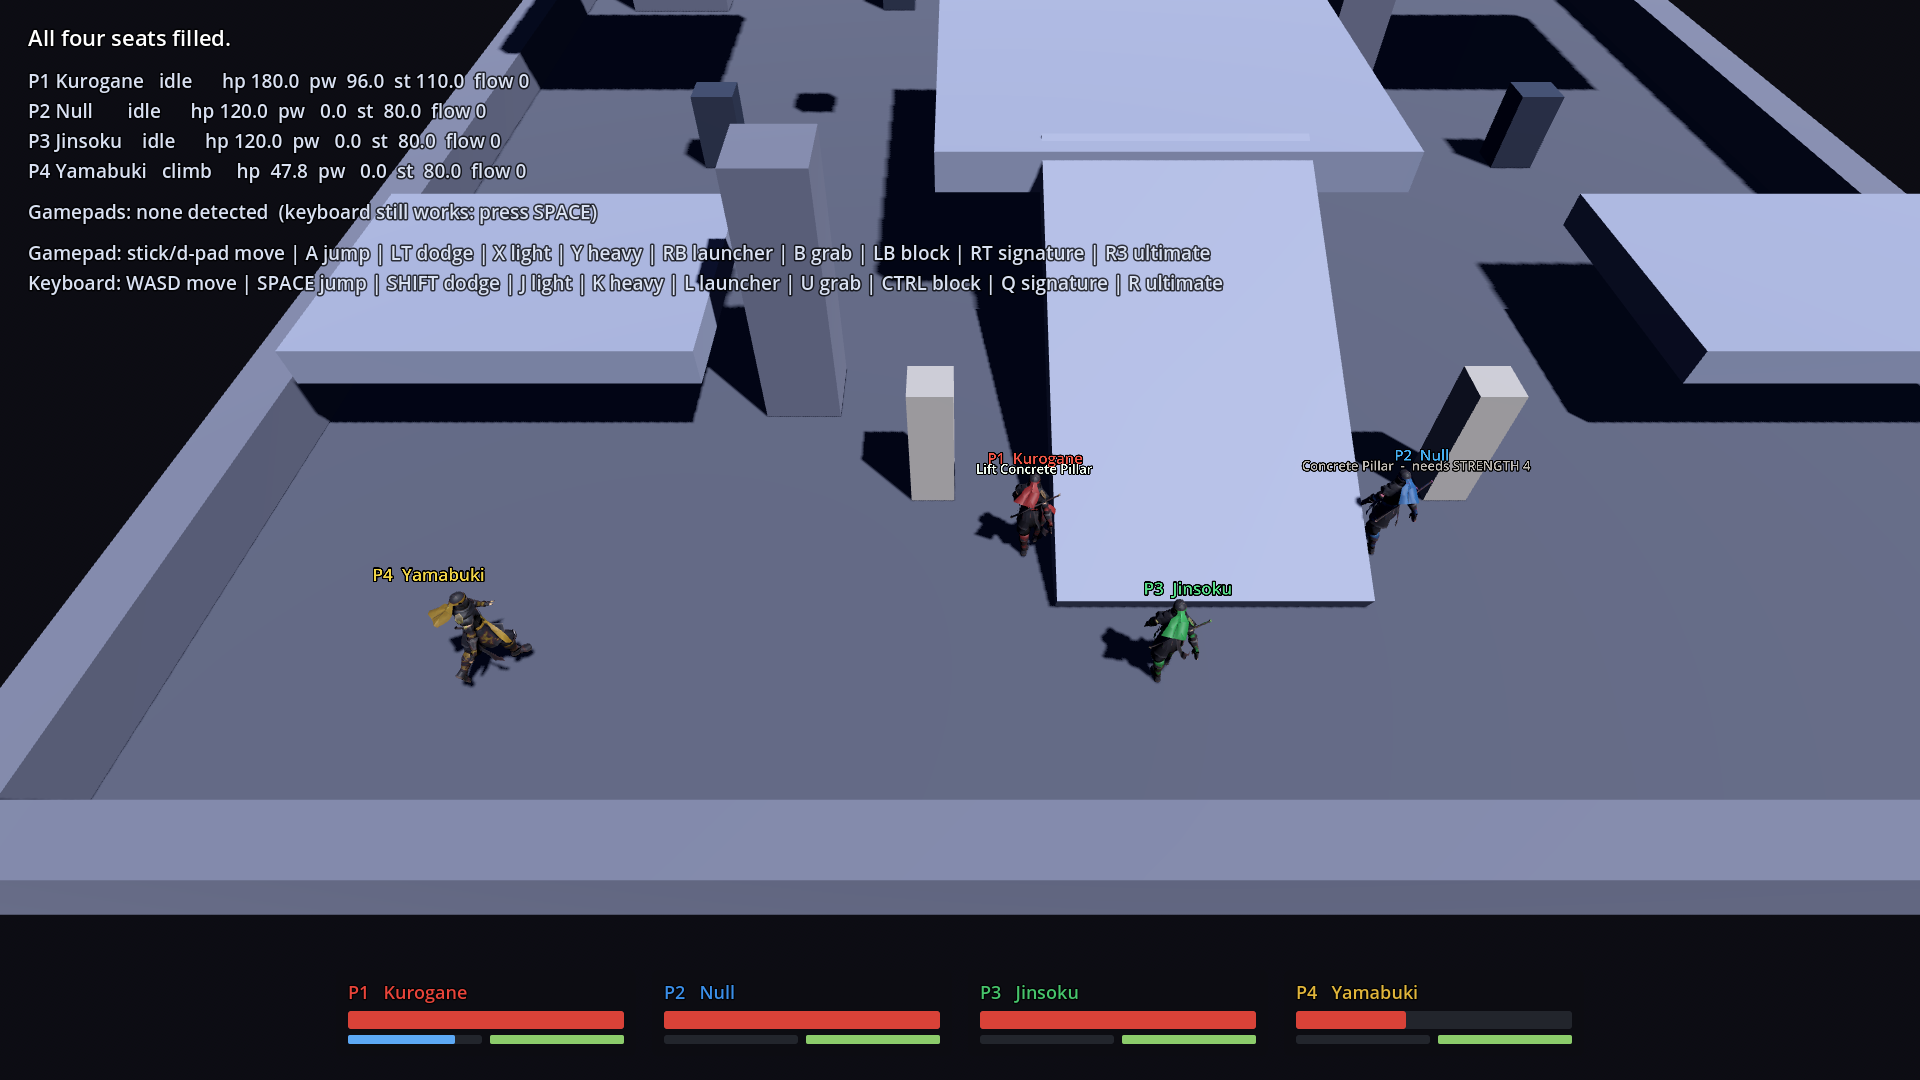
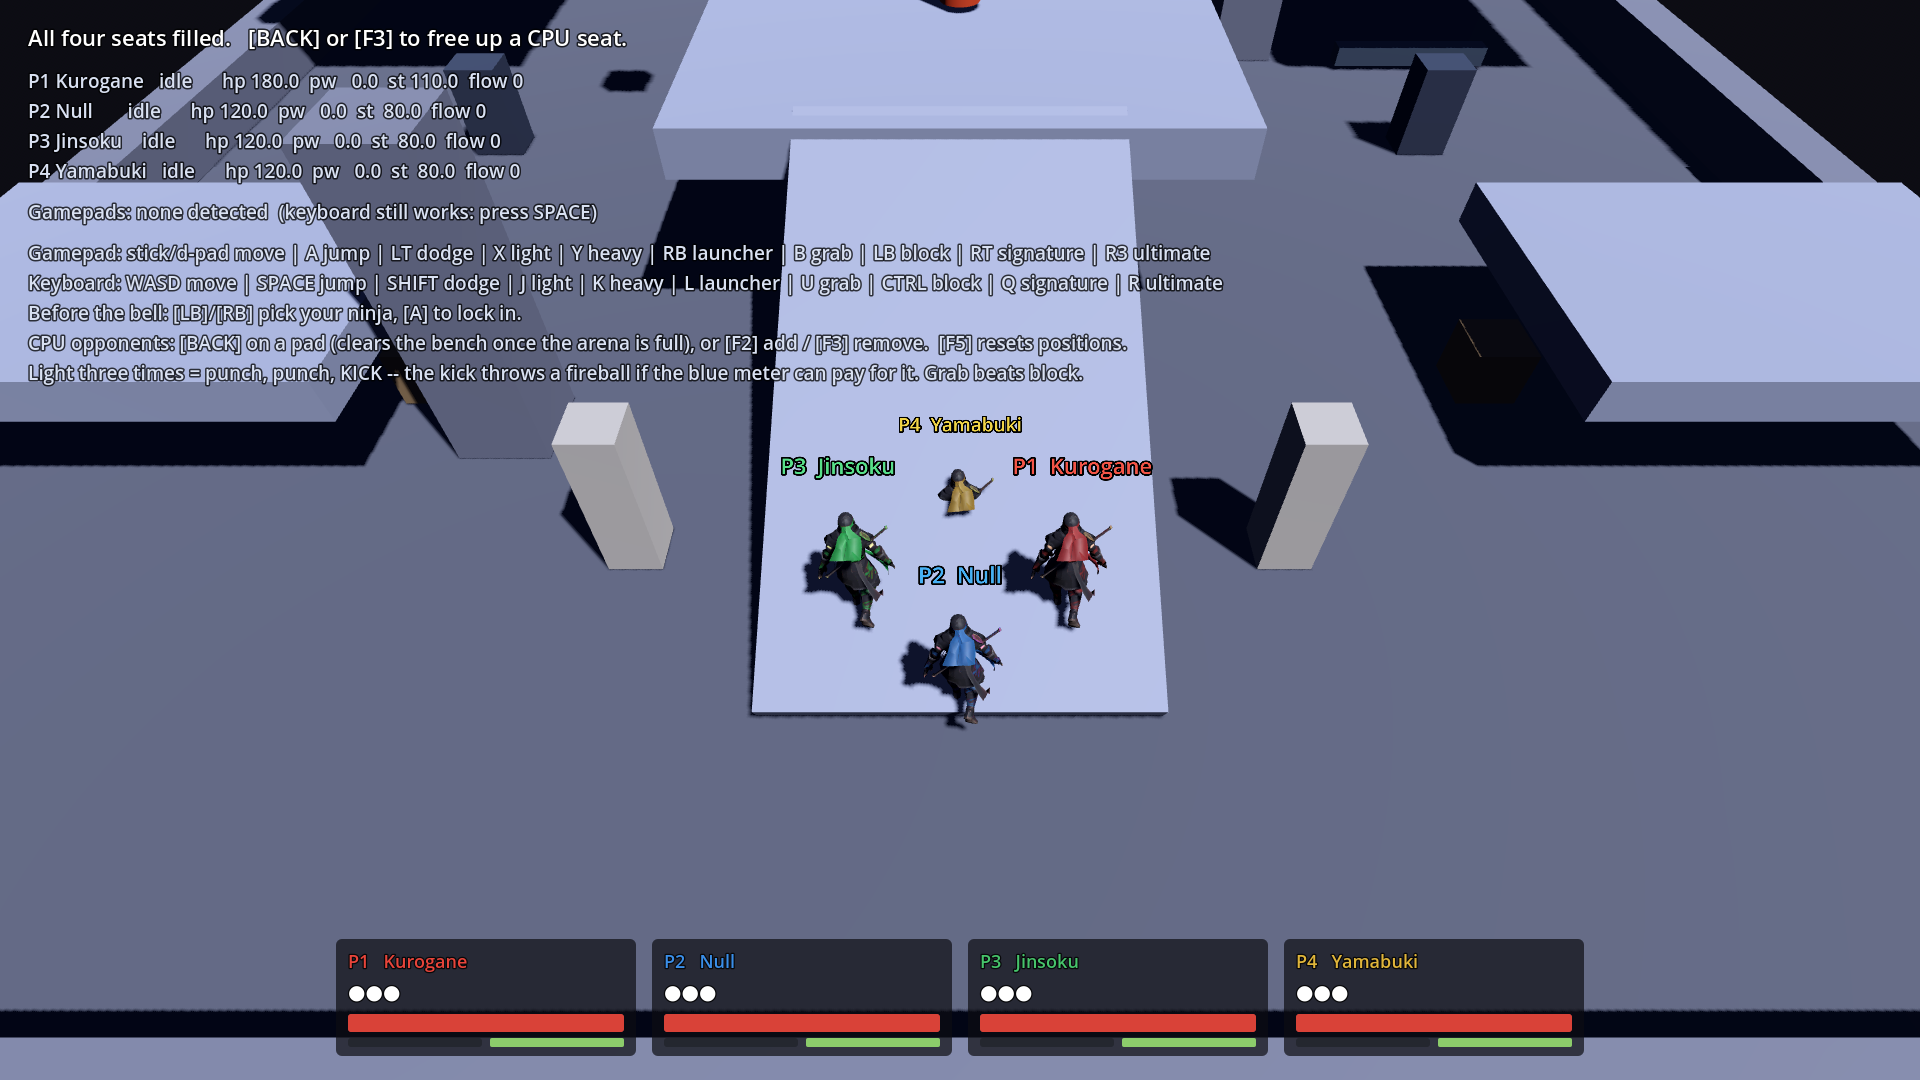
Pull the camera in: a fighter was 8% of the screen at best
Measured rather than eyeballed, because "is it zoomed out too far" is not a
question one screenshot answers. A standing ninja covered 8.3% of the
screen's height with the whole fight in one spot and 5.6-6.8% at a normal
working distance -- while the outermost fighter never once got past
halfway to the edge of the frame. All that margin was buying nothing.

Padding was the number doing it: at 5.0 it kept a body's height of empty
floor on every side of the outermost fighter, and at anything short of a
full-arena spread it, not the spread, was what the framing solved for.
Padding 2.6, head_room 2.6 (sized to the nameplate rather than guessed)
and min_distance 8.0 give 11.1% tight and 6.7-8.6% at working distances.
The permission prompts above fighters' heads are legible from the normal
camera position now, which they were not -- that is the game's main
teaching mechanism and it had been too small to read.

Getting an honest number took two attempts. Projecting head and feet to
pixels answers in the real viewport's units, and the headless viewport is
not the shape the game is played on; dividing those by an assumed 1080
would have reported half the truth and sent the tuning the wrong way. The
fraction comes from the camera's own distance and field of view instead,
with the pitch cosine for foreshortening.

The brawl probe now counts samples where anybody is off screen, so a
tighter frame has to be shown safe under knockback and not just at staged
spacings.
[…]

diff --git a/docs/ROADMAP.md b/docs/ROADMAP.md
@@ -486,6 +486,64 @@ Props added at the same time:
   friendly-fire exemption; it is the one object here that does not care whose
   it was.
 
+## The camera was zoomed too far out, and I had said so twice
+
+A standing ninja covered 8.3% of the screen's height with the whole fight in one
+spot, and 5.6-6.8% at a normal working distance. That is small for a game where
+you have to read a wind-up. Meanwhile the outermost fighter never once got past
+halfway to the edge of the frame -- all that margin was being spent on nothing.
+
+Padding was the number doing it. At 5.0 it kept a body's height of empty floor
+on every side of the outermost fighter, and at anything short of a full-arena
+spread it, not the spread, was what the framing solved for. Padding 2.6,
+head_room 2.6 (sized to the nameplate rather than guessed) and min_distance 8.0
+put a fighter at 11.1% tight and 6.7-8.6% at working distances. The permission
+prompts above fighters' heads are legible from the normal camera position now,
+which they were not -- that is the game's main teaching mechanism, and it had
+been too small to read.
+
+### What this turned up, including about my own claim
+
+Measuring it needed two instruments, and the first one was wrong. Projecting a
+fighter's head and feet to pixels answers in the real viewport's units, and the
+headless viewport is not the shape the game is played on -- dividing those pixels
+by an assumed 1080 would have reported half the truth. The fraction is computed
+from the camera's own distance and field of view instead, with the cosine of the
+pitch for foreshortening, which depends on nothing outside the camera.
+
+The tighter framing then had to be shown safe under knockback, not just at staged
+spacings, so the brawl probe now counts samples where anybody is off screen. It
+found that fighters already left the frame occasionally before any of this.
+
+I thought I had found the cause: the framing distance was solved against the raw
+centre of the fighters while the camera looks at a version of that clamped inside
+the arena bounds, so it was sizing a frame for a point it never uses. That is a
+genuine mistake and it is fixed. But four brawls each way put 6 off-screen
+samples against 9 out of 1800 -- noise. And the regression test I wrote for it
+passed with the fix reverted, twice, even with padding dropped to almost nothing:
+at the scale where the clamp engages, min_distance and head_room dominate
+anything it does.
+
+So the fix stands on correctness alone, and the test stayed as what it honestly
+is -- a broad check that nobody is clipped in a corner, not a guard on that line.
+A test that agrees with either answer is worth less than no test, and the useful
+habit is to revert the fix and watch the new test fail before believing it.
+
+Two more from the same pass, both in the bot:
+
+- **A freed object cannot be passed to a typed parameter**, and the call fails
+  quietly: GDScript refuses the cast, the function returns its default, and the
+  caller carries on with a wrong answer. An errand freed between ticks -- a
+  barrel detonating, thrown debris being consumed -- was aborting the bot's whole
+  think loop, which is why a bot standing next to a blocking opponent did
+  nothing at all for six hundred frames. Third time that exact trap has bitten
+  in this project.
+- **A test that turns on a die roll fails a third of the time**, and passing it
+  four times running is not evidence it does not. Whether a bot bothers with a
+  prop is deliberately a chance; whether it can reach one and pick it up is not.
+  The chance is a per-bot knob now, like crowd_pull and skill, so the check can
+  fix it at 1.0 and test the walk instead of the dice.
+
 ## Bots that use the arena
 
 Half the game was the arena, and bots played the other half. Nothing stopped

diff --git a/README.md b/README.md
@@ -33,7 +33,10 @@ only, so skin and armour stay put:
 
 ![Four players in the Proving Ground](docs/images/m1-four-players.png)
 
-The camera frames everyone and pushes in when the fight closes up:
+The camera frames everyone and pushes in when the fight closes up. A standing
+ninja covers about 11% of the screen's height with the fight in one spot and
+around 7% at a normal working distance — measured, because "is it zoomed out too
+far" is not a question one screenshot answers:
 
 ![The camera pushing in](docs/images/m1-camera-close.png)
 
@@ -331,8 +334,8 @@ first step is an import pass — which builds the very cache whose absence is th
 bug.
 
 The normal run imports the project to surface script and scene parse errors,
-then runs the suites: 77 movement/input/camera, 143 combat, 79 interaction, 40
-match-flow and 65 bot checks — 404 in all. Every test
+then runs the suites: 80 movement/input/camera, 143 combat, 79 interaction, 40
+match-flow and 65 bot checks — 407 in all. Every test
 drives real fighters through the real main scene using scripted input sources.
 Because fighters only ever read an `InputFrame`, the whole game is testable
 headlessly with no hardware.
